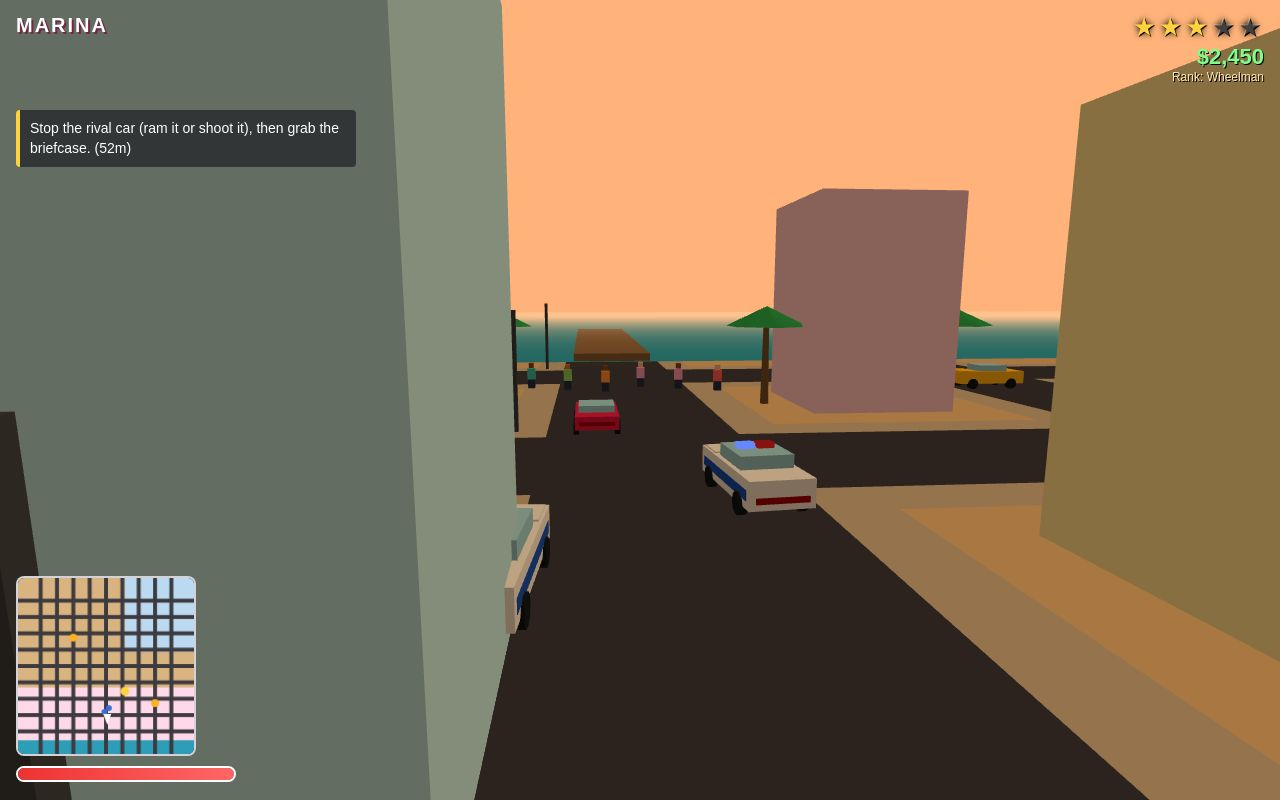
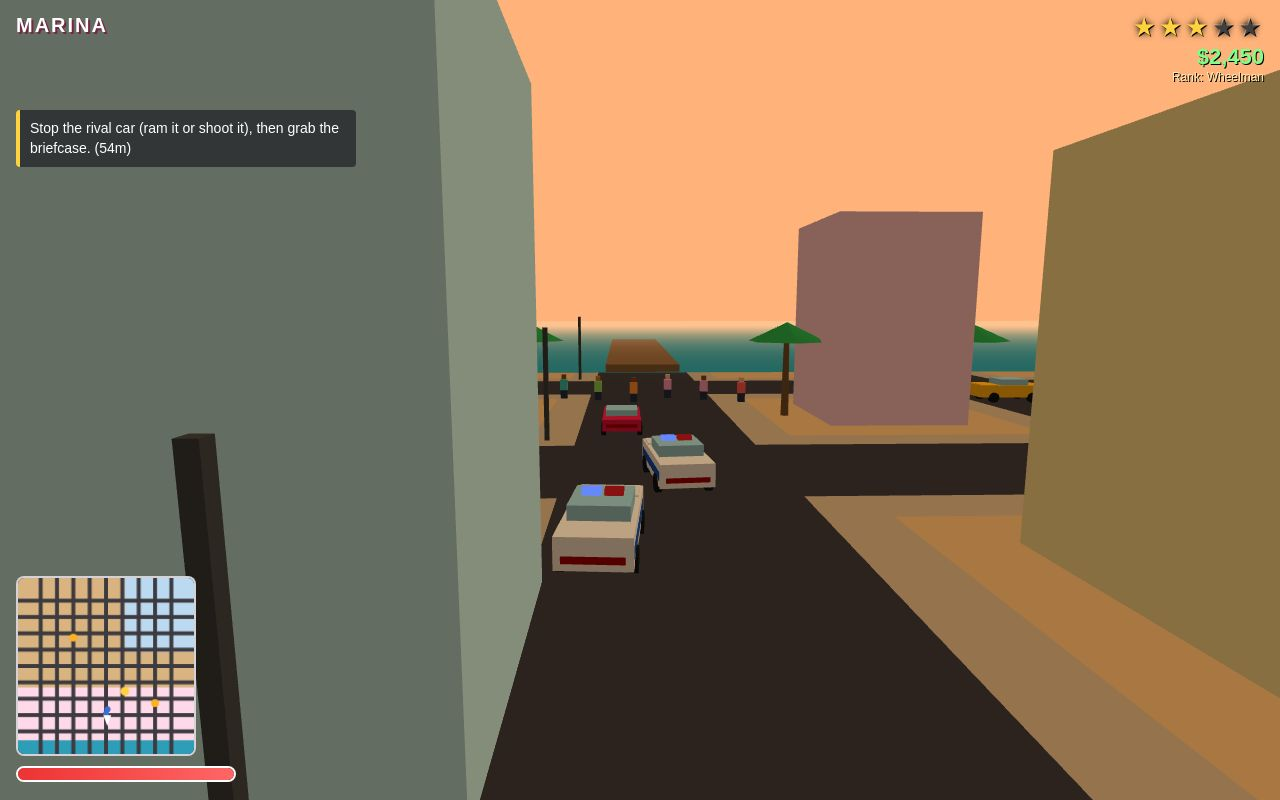
Fix mission softlocks + invisible-player bug; retake cover with both cruisers visible
Missions (game/src/missions.js):
- cleanup(): exit the player's car before removing a spawned mission car.
  Completing The Golden Hour removed the Aurum while Rio was driving it,
  leaving him car-less with his mesh hidden (invisible in free roam). Same
  path fired on mission restart via start().
- fenceCheck(): refuse to fence a live mission's target car (except Sirens
  stage 2, where fencing the Vesper is the objective). Fencing the Vesper
  during stage 1 deleted the objective car and permanently softlocked the
  chain; same hole covered the rival car and the Aurum.

Cover (game/src/shots.js): restage the chase in the middle of the road
corridor — hero (2,86), cruisers (0,76) and (2.5,69), camera (2,6.5,52).
The old trailing cruiser spot parked its rear inside the building plot at
(8.4,63.16). Both cruisers now fully visible; verified by screen-rect probe
and by eye. Playtest: missions 2-5 completed end-to-end with exact payouts
(350/600/1200+2400 fence/3000), original suite 25/25.

diff --git a/game/src/shots.js b/game/src/shots.js
@@ -21,12 +21,17 @@ export function stageScene(G, scene) {
   G.shotMode = scene;
   if (scene === 'cover') {
     // Police chase on a Marina boulevard: Rio's sports car fleeing, two cruisers behind.
-    P.x = 2; P.z = 84; P.angle = 0;
-    const hero = park(G, 'sports', 2, 84, 0, 'player');
+    P.x = 2; P.z = 86; P.angle = 0;
+    const hero = park(G, 'sports', 2, 86, 0, 'player');
     hero.stolen = true; hero.speed = 16;
     P.car = hero; P.mesh.visible = false;
-    park(G, 'police', -2.5, 73, 0.1, 'police').speed = 15;
-    park(G, 'police', 4.5, 67, -0.08, 'police').speed = 15;
+    // Both cruisers ride in the middle of the road corridor, staggered. The
+    // old trailing spot (4.5, 67) parked the cruiser's rear inside the
+    // building plot at (8.4, 63.16), so the corner swallowed half the car;
+    // these spots keep every car footprint clear of the plots and both
+    // cruisers fully in frame (verified by screen-rect probe, seed 1).
+    park(G, 'police', 0, 76, 0.1, 'police').speed = 15;
+    park(G, 'police', 2.5, 69, -0.08, 'police').speed = 15;
     park(G, 'taxi', -24, 96, Math.PI / 2); park(G, 'sedan', 26, 70, -Math.PI / 2);
     for (let i = 0; i < 6; i++) spawnPed(G, -6 + i * 2.4, 96 + (i % 3));
     setWanted(G, 3);
@@ -34,7 +39,7 @@ export function stageScene(G, scene) {
     G.missions.idx = 2; G.missions.stage = 0; G.missions.active = true;
     G.hud.setObjective('Stop the rival car (ram it or shoot it), then grab the briefcase.', { x: 30, z: 40 });
     P.camYaw = Math.PI; P.camPitch = 0.3;
-    G.camera.position.set(2.5, 6, 54); G.camera.lookAt(0, 1.3, 84);
+    G.camera.position.set(2, 6.5, 52); G.camera.lookAt(1, 1.3, 88);
   } else if (scene === 'onfoot') {
     P.x = -22; P.z = 6; P.angle = 2.6; P.mesh.position.set(P.x, 0, P.z); P.mesh.rotation.y = P.angle;
     park(G, 'taxi', -26, 12, 0); park(G, 'sedan', -20, -14, Math.PI); park(G, 'compact', -6, 2, Math.PI / 2);

diff --git a/game/src/missions.js b/game/src/missions.js
@@ -48,7 +48,13 @@ export class Missions {
   }
   cleanup() {
     for (const e of this.spawned) {
-      if (e.model) { if (this.G.cars.includes(e)) removeCar(this.G, e); }
+      if (e.model) {
+        // Rio may still be sitting in a spawned car (e.g. the Aurum at the pier
+        // the moment the finale completes): put him back on foot first, or
+        // removeCar leaves him car-less with his mesh still hidden — invisible.
+        if (this.G.player.car === e && this.G.exitCar) this.G.exitCar();
+        if (this.G.cars.includes(e)) removeCar(this.G, e);
+      }
       else if (this.G.peds.includes(e)) removePed(this.G, e);
     }
     this.spawned = [];
@@ -121,6 +127,15 @@ export class Missions {
   fenceCheck() {
     const G = this.G, car = G.player.car;
     if (!car || !car.stolen || car.model.id === 'police') return false;
+    // A live mission's target car is cargo, not merchandise: fencing it early
+    // (the Vesper during Sirens stage 1, the rival car, the Aurum) deletes the
+    // objective vehicle and softlocks the chain — those missions have no timer
+    // or fail path to recover it. The one exception is Sirens stage 2, where
+    // fencing the Vesper IS the objective.
+    if (this.active && this.targetCar && car === this.targetCar && !(this.idx === 3 && this.stage === 2)) {
+      G.hud.banner('NOT FOR SALE', 'This car is mission cargo — the fence will not touch it.', 3);
+      return false;
+    }
     for (const shop of CHOP_SHOPS) {
       if (dist2d(car.mesh.position.x, car.mesh.position.z, shop.x, shop.z + 7) < 7.5) {
         const pay = fenceValue(car);
